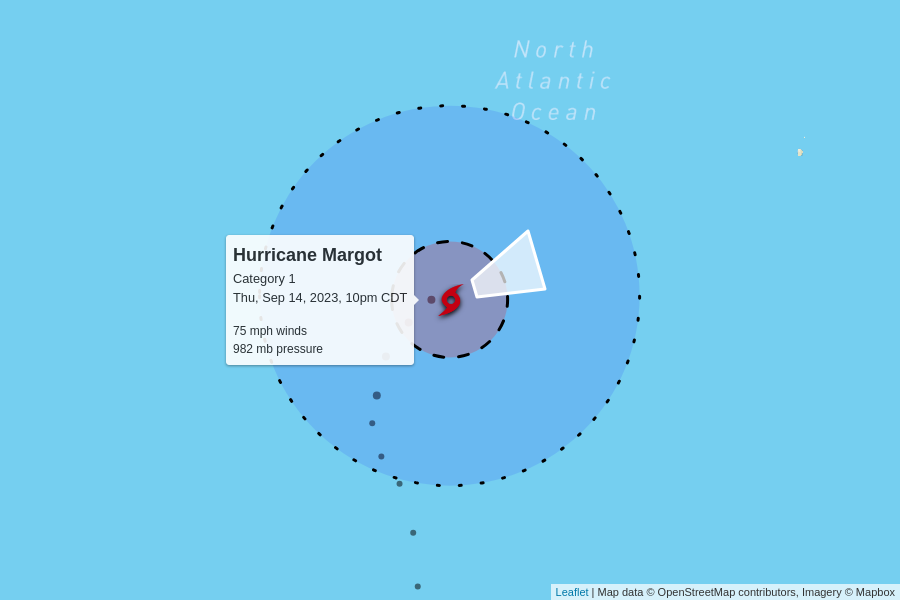
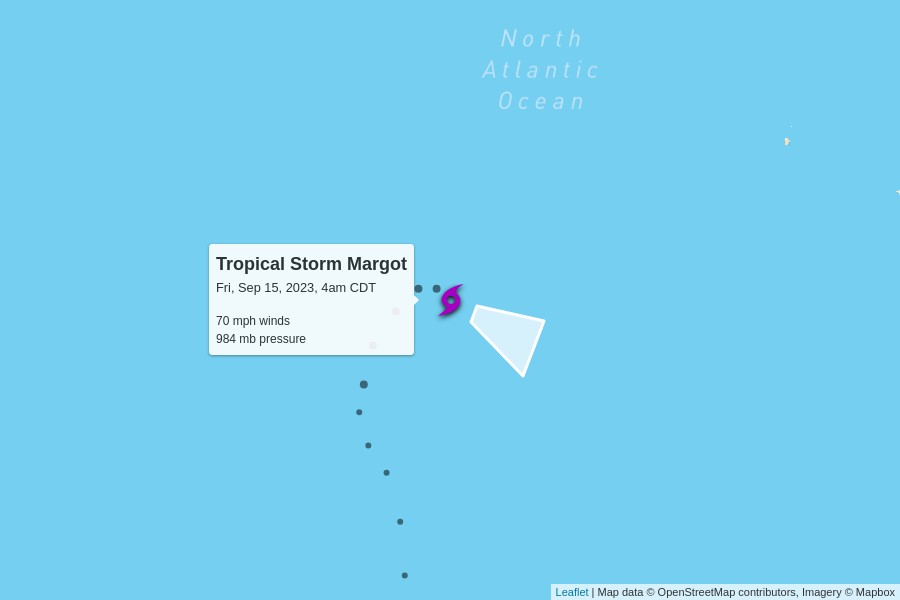
automatic update

diff --git a/docs/index.html b/docs/index.html
@@ -104,7 +104,7 @@
         <td colspan="6" class="storm category-1" >
           <h2>
             Hurricane Lee - Category 1
-            <p class="updated">last updated <span data-time>2023-09-15T06:00:00.000Z</span></p>
+            <p class="updated">last updated <span data-time>2023-09-15T09:00:00.000Z</span></p>
           </h2>
         </td>
       </tr>
@@ -122,7 +122,7 @@
         <td>85 mph<br>0 mph since last update</td>
         <td>957 mb<br>0 mb since last update</td>
         <td>
-          15 mph to the north
+          16 mph to the north
           <br/>
           <span style="display: inline-block; font-size: 1.5em; transform: rotate(10deg);">↑</span>
         </td>
@@ -145,10 +145,10 @@
       
 
       <tr>
-        <td colspan="6" class="storm category-1" >
+        <td colspan="6" class="storm category-0" >
           <h2>
-            Hurricane Margot - Category 1
-            <p class="updated">last updated <span data-time>2023-09-15T03:00:00.000Z</span></p>
+            Tropical Storm Margot
+            <p class="updated">last updated <span data-time>2023-09-15T09:00:00.000Z</span></p>
           </h2>
         </td>
       </tr>
@@ -163,12 +163,12 @@
       </tr>
       <tr>
         <td class="spacer"></td>
-        <td>75 mph<br>-5 mph since last update</td>
-        <td>982 mb<br>+4 mb since last update</td>
+        <td>70 mph<br>-5 mph since last update</td>
+        <td>984 mb<br>+2 mb since last update</td>
         <td>
-          3 mph to the east-northeast
+          3 mph to the east-southeast
           <br/>
-          <span style="display: inline-block; font-size: 1.5em; transform: rotate(70deg);">↑</span>
+          <span style="display: inline-block; font-size: 1.5em; transform: rotate(115deg);">↑</span>
         </td>
         <td><a href="https://raw.githubusercontent.com/mgwalker/atlantic-hurricanes/main/data/csv/AL142023.csv">AL142023.csv</a></td>
         <td><a href="https://www.nhc.noaa.gov/archive/2023/MARGOT.shtml?">NHC advisories</a></td>
